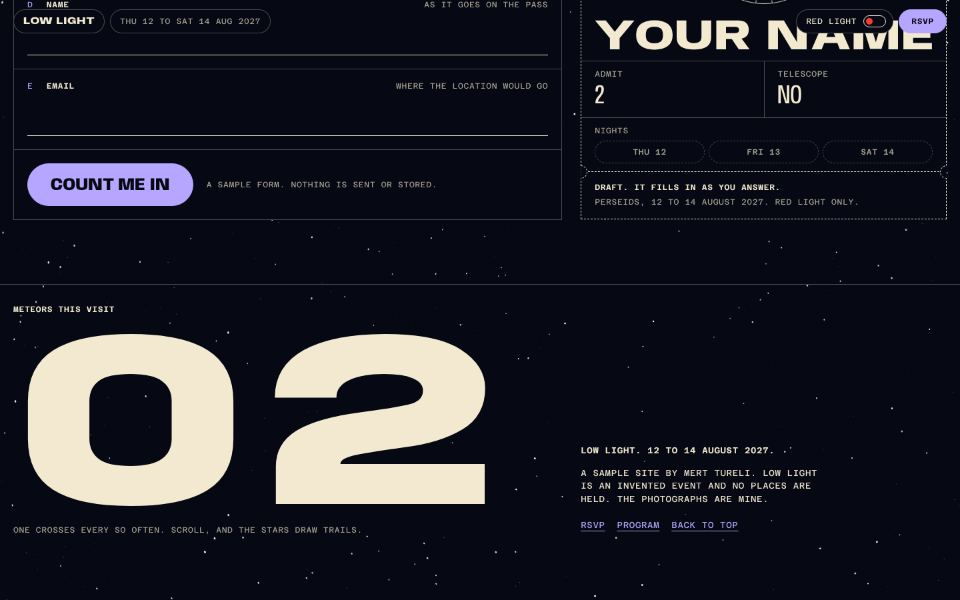
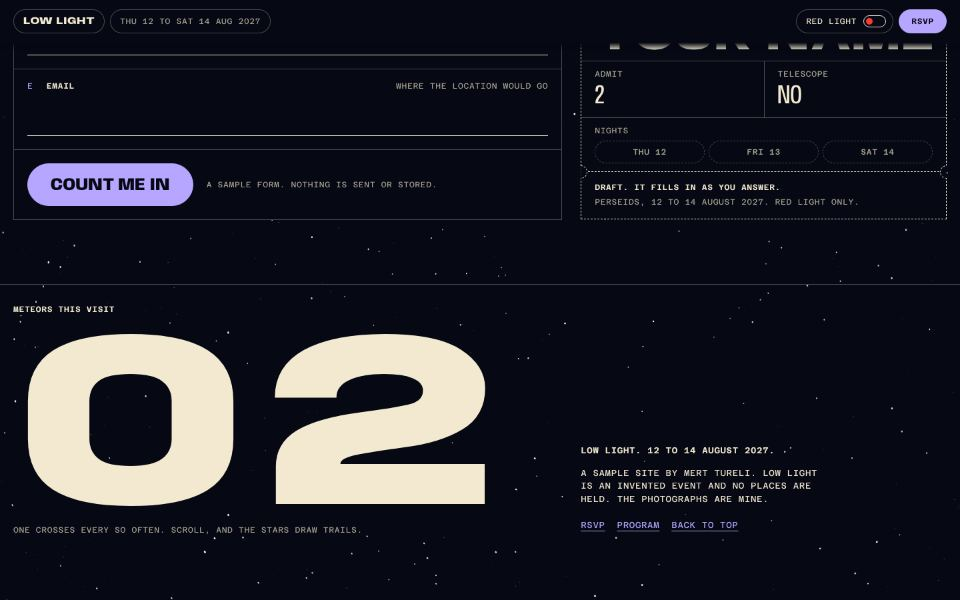
Websites page is the catalog; samples carry a Sample site tag
The catalog of twelve sites replaces the old four-study picker on the
Websites page, with filter chips, the viewer at three widths and deep
links. studies/index.html forwards to it. On the eight samples the back
pill reads Sample site at every width; the four redesigns keep theirs.
Four lines that offered a paid service are softened at the owner's word.
Low Light posters refreshed. Preview tool, robots.txt and docs in step.

Claude-Session: https://claude.ai/code/session_01CEbbDhhfzdpcoGhjMFhyie

Changed region(s): [[0.625, 0.03, 0.9688, 0.09], [0.4375, 0.0, 0.5625, 0.03], [0.0312, 0.0, 0.0625, 0.03]]

diff --git a/studies/sideslip/css/sideslip.css b/studies/sideslip/css/sideslip.css
@@ -313,6 +313,7 @@ input[type=range]:focus-visible{outline:2px solid var(--ink);outline-offset:4px}
   .js .study-back.study-back--sideslip{position:fixed}
   .dock::before{content:"";position:fixed;z-index:-1;left:0;right:0;top:0;height:64px;background:var(--plate);border-bottom:1px solid var(--ink);visibility:hidden;pointer-events:none}
   .is-veiled .dock::before{visibility:visible}
+  [data-study-framed] .dock::before{display:none}
   .skip:focus{top:72px}
   .hero-grid{grid-template-columns:280px minmax(0,1fr);gap:16px 24px;height:min(calc(100svh - 64px - 40px),760px);min-height:440px;max-height:none}
   .stage--hero{grid-column:2;grid-row:1;margin-left:0}

diff --git a/studies/vireo/NOTES.md b/studies/vireo/NOTES.md
@@ -194,11 +194,14 @@ The rocket is not copied: `rig.js` imports `next/js/viewer/products/charger.js` 
   brief's `#6e6e73`, because the still's studio gray is darker than the page and `#6e6e73` fell to 4.0 to 1.
 - **No orange text on light sections** (2.8 to 1 on `#f5f5f7`): orange there is fills only (the selected kit,
   the open pill's icon, buttons). The focus ring is orange on dark sections and ink on light ones.
-- **The way back** is docked in the local bar as a quiet glass chip after the product name, with the same link
-  and text, and takes the bar's dark or light theme. Under 480px only its arrow shows (the text stays for
-  assistive tech; the target is 48px tall). Checked at 15 widths from 360 to 1920 down the whole page: it stays
-  inside the bar, 16px after the product name, and is never over a headline, a control, a field, the price pill
-  or the phone's bottom bar.
+- **The way back** is docked in the local bar as a quiet glass chip after the product name, with the same link,
+  and takes the bar's dark or light theme (the target is 48px tall). Checked at 15 widths from 360 to 1920 down
+  the whole page: it stays inside the bar, 16px after the product name, and is never over a headline, a control,
+  a field, the price pill or the phone's bottom bar.
+- **It reads "Sample site"** (November 2026, the owner's call), at every width, so nobody who lands here takes the
+  reserve form for a real shop; its name for readers is "Sample site by Mert Tureli. Back to websites". The arrow
+  alone no longer shows under 480px; the chip tightens to 11px type instead, and under 390px the product name
+  steps out of the bar (it is the hero's eyebrow right below) to make room.
 - **No reveal on the "Look closer" panel**: it holds the live view, so it is never hidden.
 - **A second font file is fetched with the 3D**: the shared Archivo (90 KB), only so the rocket's own livery
   lettering is drawn as on the live site (`hero3d.js` paints it on a canvas). No page text uses it.

diff --git a/studies/albada/NOTES.md b/studies/albada/NOTES.md
@@ -146,11 +146,16 @@ narrow band where neither reaches 4.5 to 1 it goes to pure white or pure black a
 
 **Review round (critic's punch list)**
 
-- **The way back** is no longer the shared pill. From 900 wide it is a 44px circle with an arrow in the left
-  gutter at the bottom, hairline, in the ink of the ground under it; the words show on hover and focus. Under
-  900 it is the same arrow docked in the bar before the wordmark. Checked over the whole scroll at 360, 390,
+- **The way back** is no longer the shared pill. (Superseded below: the circle became a tag.) From 900 wide it
+  was a 44px circle with an arrow in the left gutter at the bottom, hairline, in the ink of the ground under it;
+  the words showed on hover and focus. Under 900 it was the same arrow docked in the bar before the wordmark. Checked over the whole scroll at 360, 390,
   768, 1024, 1440 and 1920: it never sits on a headline, a control or a field (the calendar, the FAQ, the
   hero line). The bar's clock now centers in the room between the name and the menu, and hides under 380.
+- **The way back reads "Sample site"** (November 2026, the owner's call), so nobody takes the booking for a real
+  flight. The circle could not hold the words, so it is now an outlined tag in the bar's ink, an empty twin of the
+  Book tag: after the wordmark from 900 wide, and hanging just under the bar at the left edge below 900, where the
+  bar row has no room. Under 900 the bar's veil runs 32px further down to keep it on the ground, and the menu sheet
+  starts below it. Its name for readers is "Sample site by Mert Tureli. Back to websites".
 - **Long jumps** (more than two screens) cut inside a view transition instead of racing through every
   ground; with reduced motion or without view transitions they jump. The booking's scroll margin is set by
   the script so the calendar head and its rows land in view (checked at 1440 x 900 and 1280 x 640).

diff --git a/studies/lowlight/NOTES.md b/studies/lowlight/NOTES.md
@@ -150,10 +150,13 @@ licenses in `fonts/`, one icon in `assets/`. No build step, no outside request.
    In normal light the switch's knob is the one red thing on the page.
 9. **The bar** is transparent, but each item is a solid pill, so it reads over every section.
 10. **The way back** is docked in the bar as its first chip, in the bar's colors, and follows red light mode.
-    On a wide screen it stays with the bar, so the page scrolls under it as it does under the bar's own chips.
-    A phone's bar has no room for it, so there it has a row of its own under the bar at the top of the page
-    and scrolls away with the first screen: further down it is never over a button or a form field. Checked
-    at 85 widths from 360 to 1920: at the top of the page it touches no headline, control, field or the badge.
+    A phone's bar has no room for it, so there it has a row of its own under the bar. Checked at 85 widths from
+    360 to 1920: at the top of the page it touches no headline, control, field or the badge.
+    Since November 2026 it reads "Sample site" (the owner's call), so nobody takes the RSVP for a real event, and it
+    stays on screen at every width (on a phone it used to scroll away with the first screen). Once the page
+    moves, a band of the night runs behind the bar and that row (`.bar::before`, faded at its foot), so neither the
+    chip nor the bar's own chips ever sit over a heading, a button or a field scrolling past. Its name for readers
+    is "Sample site by Mert Tureli. Back to websites".
 11. **House rules** carry one moving shape that the brief did not list: a disc that crosses the list with the
     scroll and inverts what it covers. It is drawn as a round window holding an inverted copy of the list (the
     colors a cream disc in "difference" would give), the window moving one way and the copy back by as much, so

diff --git a/studies/slowroads/NOTES.md b/studies/slowroads/NOTES.md
@@ -114,12 +114,14 @@ Six sections as briefed, in `index.html`, `css/slowroads.css` and four small mod
   postmark, the rubber stamp and the grease-pencil circle.
 - **Doodles.** `assets/doodles.svg` is one sprite of 17 pen marks (arrows, map icons, waves, pines, the
   postmark bars), drawn from a few points each and shaken with noise. Tape is CSS.
-- **The way back.** "Back to websites" is a kraft luggage tag tied to the top left corner of the page, not
-  the fixed pill. It is placed in this sample's CSS, sits on bare desk above the label, and scrolls away
-  with the cover: on a phone there is no margin where a fixed link could stay without covering prints,
-  contact frames or the email field as they pass. Checked at 16 sizes from 360 to 1920 wide, at every scroll
-  position: it is never over a headline, a print, a control or text. It is first in the tab order, and
-  "Back to the top of the pile" in the footer leads back to it.
+- **The way back** is a kraft luggage tag tied to the top left corner, not the fixed pill. It is first in the
+  tab order. Since November 2026 it reads "Sample site" (the owner's call), so nobody takes the postcard for a
+  real subscription, and it stays on screen: it used to scroll away with the cover, because on a phone there is
+  no margin where a fixed link could stay without covering prints, contact frames or the email field. Now it is
+  pinned to the window, and as soon as the page moves a strip of the desk (`body::before`, 70px, with a soft
+  shadow) slides in under it, so the sheets pass beneath the strip and nothing is ever under the tag. The scroll
+  padding grew to match, and the contact sheet's enlargement and the postcard scroll clear of the strip. Its
+  name for readers is "Sample site by Mert Tureli. Back to websites".
 
 **Deviations from the brief, and why**
 

diff --git a/studies/README.md b/studies/README.md
@@ -35,12 +35,21 @@ studies/<key>/
 <title>...</title>
 ```
 
-First thing in `<body>`, the pill back to the Websites page (copy it from `launch/index.html`). It sits bottom
+First thing in `<body>`, the pill back to the Websites page (copy it from `vireo/index.html`). It sits bottom
 left by default, fixed, and there it takes taps meant for the page: a review found it over option cells, form
 fields and footer links on phones. So every sample places it in its own CSS (never in `shared/study.css`):
 docked in the sample's own bar where there is room, restyled to belong to that bar, and at no width from 360
-to 1920 on top of a headline, a control, a form field or a dialog. Its text and link stay. Inside the
-catalog's viewer on the Websites page it hides itself.
+to 1920 on top of a headline, a control, a form field or a dialog. Its link stays.
+
+On a sample site the pill is also the mark that the page is a sample (the owner's decision, November 2026):
+several samples show prices and a booking or reserve flow, and a visitor who lands on one directly must not take
+it for a real shop. So it reads "Sample site" with its back arrow, never shorter and never an icon alone, at
+every width from 360 to 1920 ("Sample site by Mert Tureli" is fine where there is clear room), and its name for
+readers says both things: `aria-label="Sample site by Mert Tureli. Back to websites"`. It shows on the first
+screen and stays on screen while the page scrolls: where a sample's bar scrolls away or is clear, the sample
+gives the pill a band to sit on, so the page passes under the band and never under the pill. The four
+redesigns of the portfolio keep "Back to websites". Inside the catalog's viewer on the Websites page the pill
+hides itself (the viewer's own bar says the page is a sample).
 
 ## Rules for a sample site
 

diff --git a/studies/sideslip/NOTES.md b/studies/sideslip/NOTES.md
@@ -154,6 +154,10 @@ sweep by itself, the model moves only in direct answer to input.
   control in the bar (the pill; the footer keeps the pictogram link). Skip link first in the tab order. Rudder
   scale label "512". Email placeholder `#5b5d5a`. The brand mark is now a straight tube with the ball centered
   between two reference lines.
+- **The way back** is the outlined pill at the right of the bar. Since November 2026 it reads "sample site" (the
+  owner's call), so nobody takes the reservation for a real one, and it stays on screen at every width: below
+  1040, where the bar scrolls away, it is pinned at the top right and a 64px band of plate (`.dock::before`) runs
+  behind it once the bar has gone. Its name for readers is "Sample site by Mert Tureli. Back to websites".
 - **The cut-off render.** In headless Chromium the test panel's render looked cut along a horizontal line when its
   top was under the sticky bar, while the WebGL buffer itself was whole (read back after a render). The cut
   followed the canvas's offset above the window (visible height about H less twice the part above) and went away

diff --git a/studies/batterymate/NOTES.md b/studies/batterymate/NOTES.md
@@ -101,7 +101,8 @@ from a pose table keyed by scroll (`js/poses.js`).
 Deviations and why:
 - The back pill is docked in the bar as a small slanted tag (beside the wordmark; on the bar's second row on a
   phone). Checked at every 10 px from 360 to 1920: inside the bar, clear of the wordmark, links and button. It is
-  outside the hero, so a tap on it never throws.
+  outside the hero, so a tap on it never throws. It reads "Sample site" (November 2026, the owner's call), so
+  nobody takes the demo booking for a real one; its name for readers is "Sample site by Mert Tureli. Back to websites".
 - One WebGL canvas. On screen the live machine is always shown, in the hero or in the pinned window, whichever shows
   more of itself; the other, by then mostly scrolled away, keeps its rendered still. The hero draws only while
   something moves. The stills are otherwise only the poster before three.js is in and the picture for reduced motion

diff --git a/studies/halfstop/NOTES.md b/studies/halfstop/NOTES.md
@@ -147,6 +147,8 @@ with its center at 58 in. A size is the sheet: the photograph keeps its own rati
 
 - **The way back** is a cell of the bar: beside the bag from 1100 up, at the right of the wordmark row below that.
   Square, hairline sides, the page's small type. Measured inside the bar at 16 widths from 360 to 1920.
+  It reads "Sample site" (November 2026, the owner's call) so nobody takes the prints for a real shop; its name
+  for readers is "Sample site by Mert Tureli. Back to websites". It sits under the bag while the bag is open.
 - **Sticker** hangs from the rule (it crosses it by 15% of its height at every width) and its text is sized from the
   circle: small type below 1600, head type from 1600, where the circle is large enough to hold it.
 - **Section links** land exactly under the bar (one `scroll-padding-top`, no `scroll-margin`).

diff --git a/studies/stepwise/NOTES.md b/studies/stepwise/NOTES.md
@@ -144,7 +144,9 @@ pixel at 0.85; at 1 every block is shaded. The label reads "1-bit", "N tones", "
   read and mesh times. The shipped files cannot tell them.
 - The railway rail is a left rail on wide screens. Below 1020 px there is no room for it, so the bar grows a
   32 px strip with the way back on the left, the section in view on the right and a progress line along it.
-- "Back to websites" is docked in the bar as a mono label between hairlines.
+- The way back is docked in the bar as a mono label between hairlines. It reads "Sample site" (November 2026, the
+  owner's call), so nobody takes the package for a real one; its name for readers is "Sample site by Mert Tureli.
+  Back to websites".
 
 **Known weak spots.**
 - Smoothness on a slow laptop GPU was not measured: headless checks render through SwiftShader. Copying each
